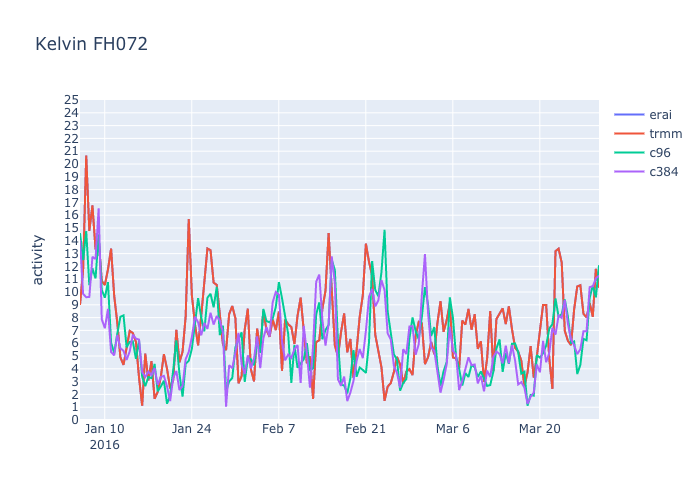
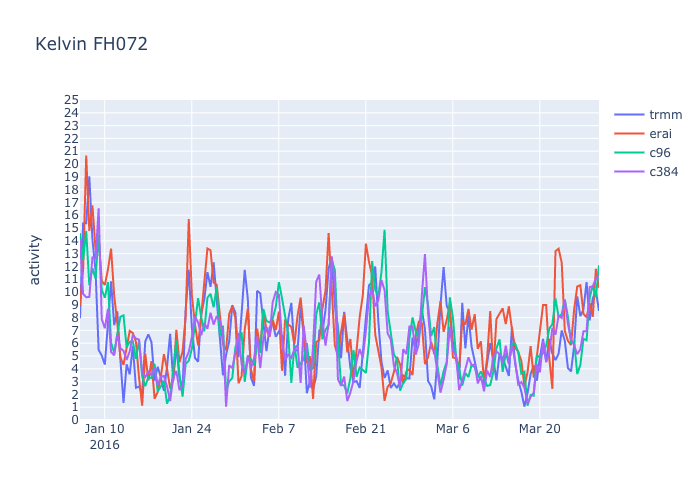
bug fix in Kelvin activity example

diff --git a/diagnostics/CCEWactivity.py b/diagnostics/CCEWactivity.py
@@ -50,6 +50,7 @@ def waveact(data: object, wave: str, eofpath: str, spd: int, opt=False):
     ds.close()
 
     # remove mean annual cycle
+    print("remove annual cycle")
     doy = data['time.dayofyear']
     doy_oad = doy[0::spd]
     nd = len(doy_oad) - len(np.unique(doy_oad))
@@ -59,6 +60,7 @@ def waveact(data: object, wave: str, eofpath: str, spd: int, opt=False):
         data_anom = rem_seas_mean(data)
 
     # compute projection
+    print("project onto EOFs")
     tswave = waveproj(data_anom, eofseas)
 
     # compute activity
@@ -103,18 +105,8 @@ def rem_seas_mean(data: object, opt: object = False) -> object:
     :param opt: optional parameter, not currently used
     :return: xr.DataArray containing anomalies from daily climatology
     """
-    da = xr.DataArray(np.arange(len(data['time'])), coords=[data['time']], dims=['time'])
-    #month_day_str = xr.DataArray(da.indexes['time'].strftime('%m-%d'), coords=da.coords, name='month_day_str')
-    time = data['time']
-
-    #data = data.rename({'time': 'month_day_str'})
-    #month_day_str = month_day_str.rename({'time': 'month_day_str'})
-    #data = data.assign_coords(month_day_str=month_day_str)
     clim = data.mean('time')
-
     data_anom = data - clim
-    #data_anom = data_anom.rename({'month_day_str': 'time'})
-    #data_anom = data_anom.assign_coords(time=time)
 
     return data_anom
 

diff --git a/examples/Kelvinactivity.py b/examples/Kelvinactivity.py
@@ -36,11 +36,10 @@ A.attrs['units'] = 'mm/d'
 
 print("project data onto wave EOFs")
 waveactA = CCEWactivity.waveact(A, wave, eofpath, spd)
+print(waveactA.min(), waveactA.max())
 
-print(waveactA.shape)
 
-
-print("reading PERSIANN data from file:")
+print("reading observed precipitation data from file:")
 spd = 2
 ds = xr.open_dataset('/data/mgehne/Precip/MetricsObs/precip.trmm.2x.1p0.v7a.fillmiss.comp.1998-2016.nc')
 B = ds.precip
@@ -49,12 +48,11 @@ B = B.sel(time=slice(datestrt, datelast))
 B = B.squeeze()
 timeB = ds.time.sel(time=slice(datestrt, datelast))
 ds.close()
-B = B * 24
 B.attrs['units'] = 'mm/d'
 
 print("project data onto wave EOFs")
 waveactB = CCEWactivity.waveact(B, wave, eofpath, spd)
-
+print(waveactB.min(), waveactB.max())
 
 print('reading model forecast from file:')
 spd = 2
@@ -68,7 +66,7 @@ filebase2 = 'prate_ave_1p0_f'
 fchrs = np.arange(0, 121, 12)
 nfchr = len(fchrs)
 exps = [0, 1, 2, 3]
-explabels = ['erai', 'trmm', res1, res2]
+explabels = ['trmm', 'erai', res1, res2]
 
 fi = 0
 for ff in fchrs:
@@ -92,7 +90,7 @@ for ff in fchrs:
 
     act[fi, 2, :] = wact1.values
     act[fi, 3, :] = wact2.values
-    act[fi, 0, :] = waveactA.values
+    act[fi, 0, :] = waveactB.values
     act[fi, 1, :] = waveactA.values
 
     print("plot activity")
